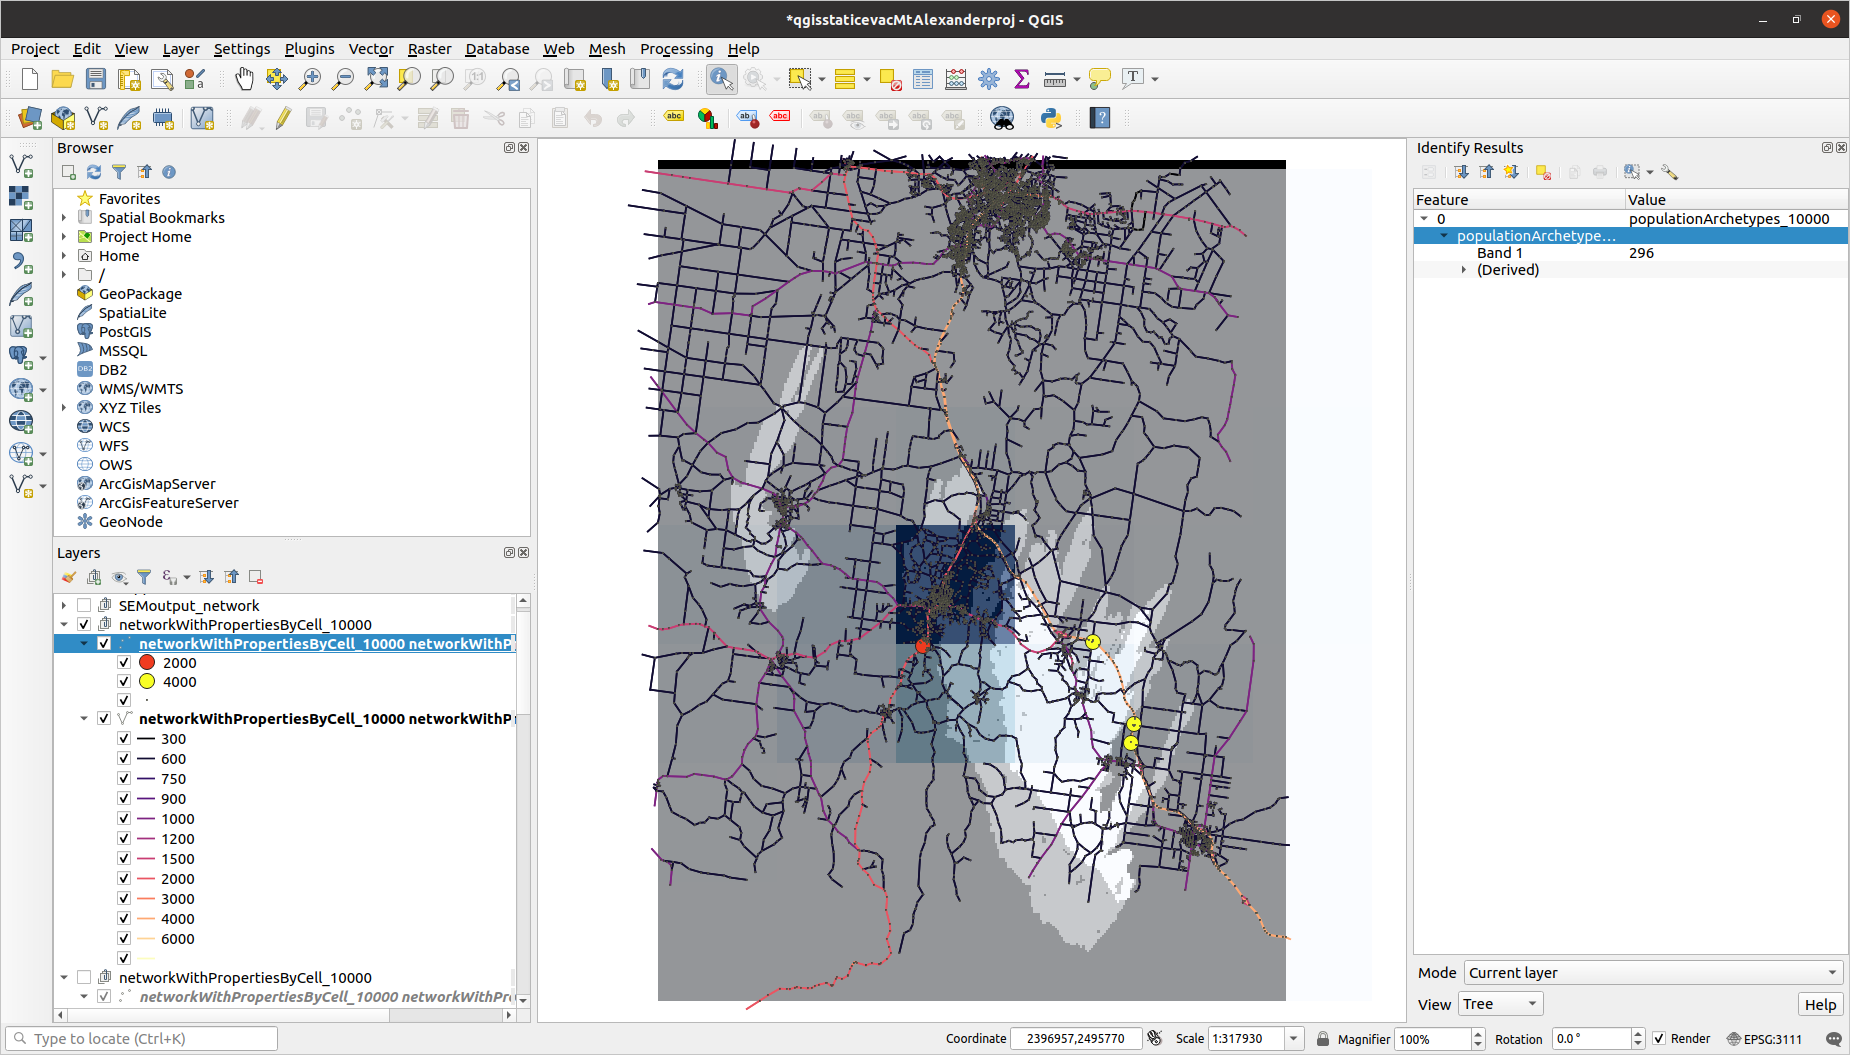
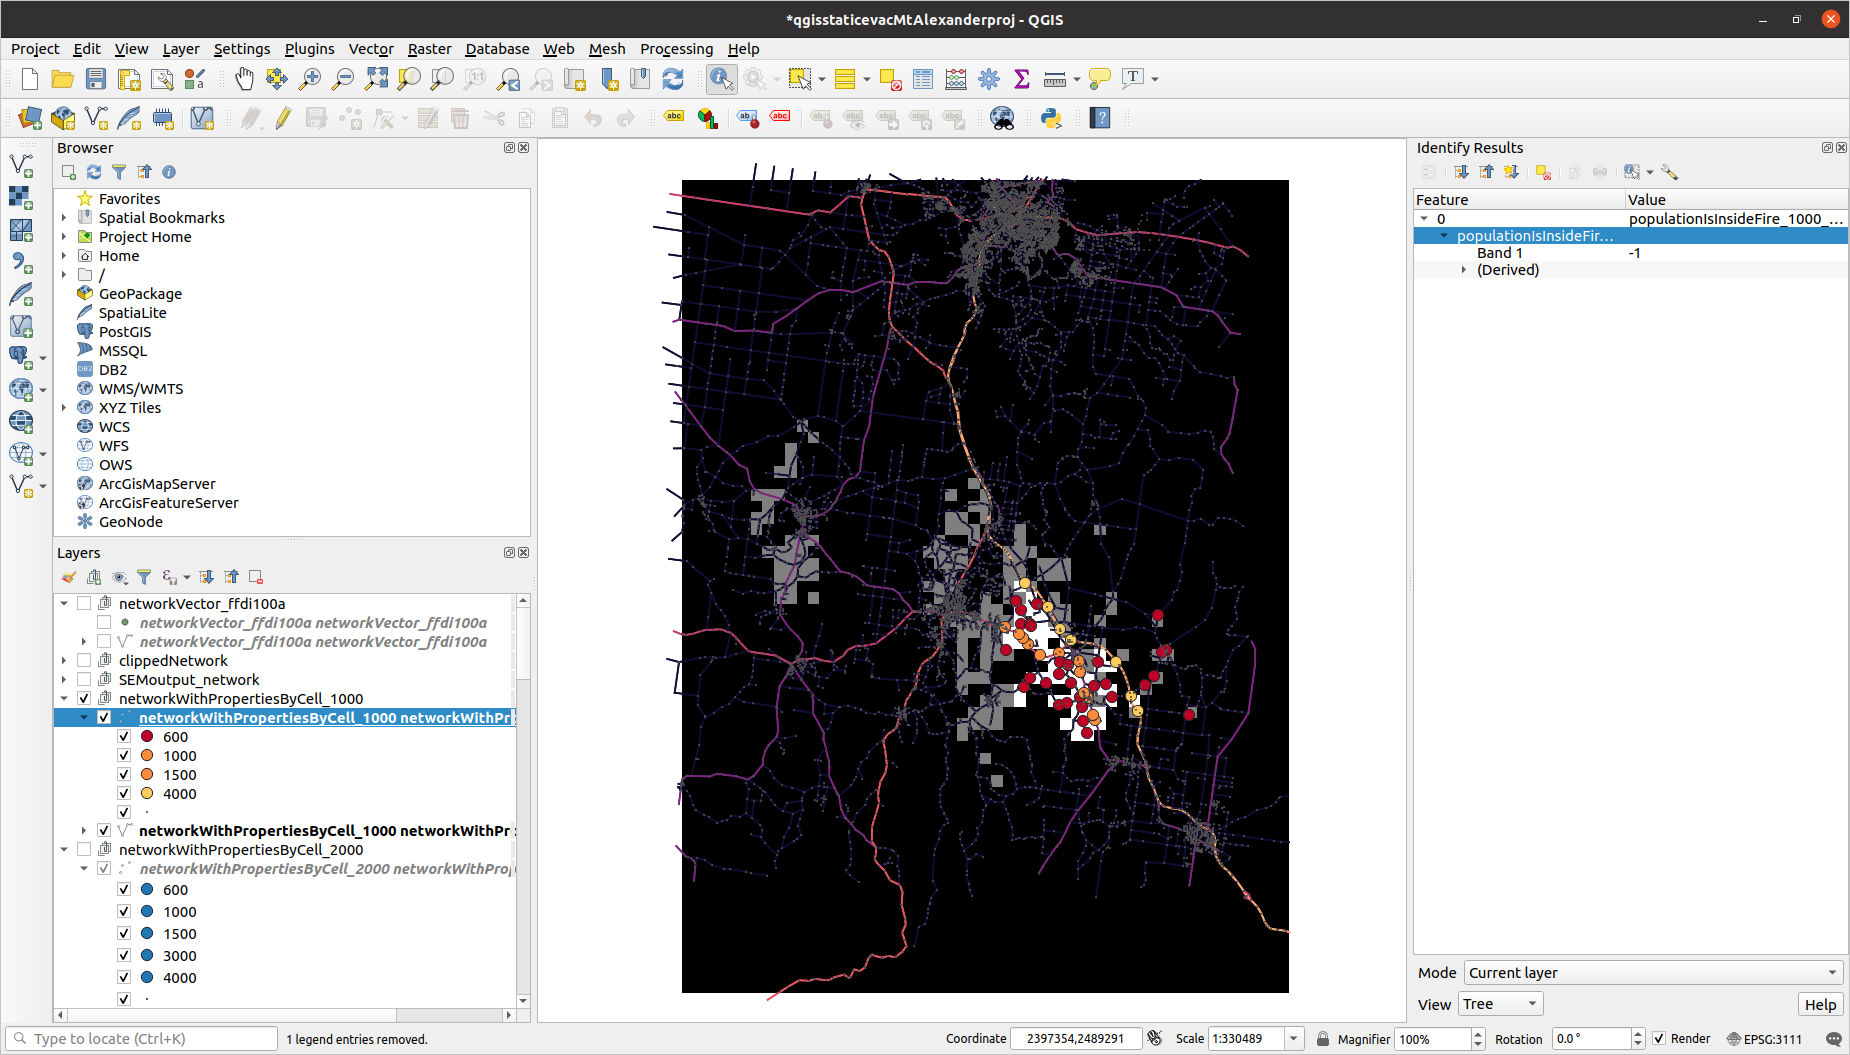
Improved communityRiskMaps_fourFires_MtAlex.md

diff --git a/communityRiskMaps_fourFires_MtAlex.md b/communityRiskMaps_fourFires_MtAlex.md
@@ -1,4 +1,4 @@
-# Community risk per population-node, as posed by four fires (Mount Alexander Shire)
+# Community risk per population node, as posed by four fires (Mount Alexander Shire)
 
 ![Diagram: fires ffdi100{a,b,c,d}, Mount Alexander Shire](fourOverlappingFiresMtAlex.png)
 
@@ -10,18 +10,20 @@
 ### Population as a coarser-grained raster:
 ![Diagram: with population archetypes as coarse-grained raster](populationArchetypesSuperimposed-coarseGrainedRaster-fourfires.png)
 
-
-## Each population raster-cell with non-zero population and inside at least one fire is assigned an injection-node - the network node having largest maximum out-capacity
-
-### Links coloured by capacity and population-nodes coloured by largest maximum out-capacity:
-![Diagram: network vector-layer with links coloured by capacity and population-nodes coloured by largest maximum out-capacity](linksColouredByCapacity_populationNodesColouredByLargestMaxOutCapacity-fourfires.png)
-
-### Each population-node that's inside at least one fire, its raster-cell coloured by the number of fires it sits inside:
-![Diagram: network vector-layer with each population-node that's inside at least one fire, its raster-cell coloured by the number of fires it sits inside](populationNodesAndRasterOfNumFiresPopulationIsInside-fourfires.png)
+### Number of fires each population-cell sits inside (community risk)
+![Diagram: Number of fires each population-cell sits inside (community risk)](numFiresPopulationIsInside-fourfires.png)
 
 
 
 # Maximum-flow method run on fire ffdi100a
+
+## Each population raster-cell with non-zero population and inside the fire is assigned a "population node" (injection-node) - the network node having largest maximum out-capacity
+
+### Links coloured by capacity and population nodes coloured by largest maximum out-capacity:
+![Diagram: network vector-layer with links coloured by capacity and population nodes coloured by largest maximum out-capacity](linksColouredByCapacity_populationNodesColouredByLargestMaxOutCapacity-fourfires.png)
+
+### Each population node that's inside at least one fire, its raster-cell coloured by the number of fires it sits inside:
+![Diagram: network vector-layer with each population node that's inside at least one fire, its raster-cell coloured by the number of fires it sits inside](populationNodesAndRasterOfNumFiresPopulationIsInside-fourfires.png)
 
 ![Diagram: maximum-flow applied to fire ffdi100a, Mount Alexander Shire](maxFlowFireA.png)
 
